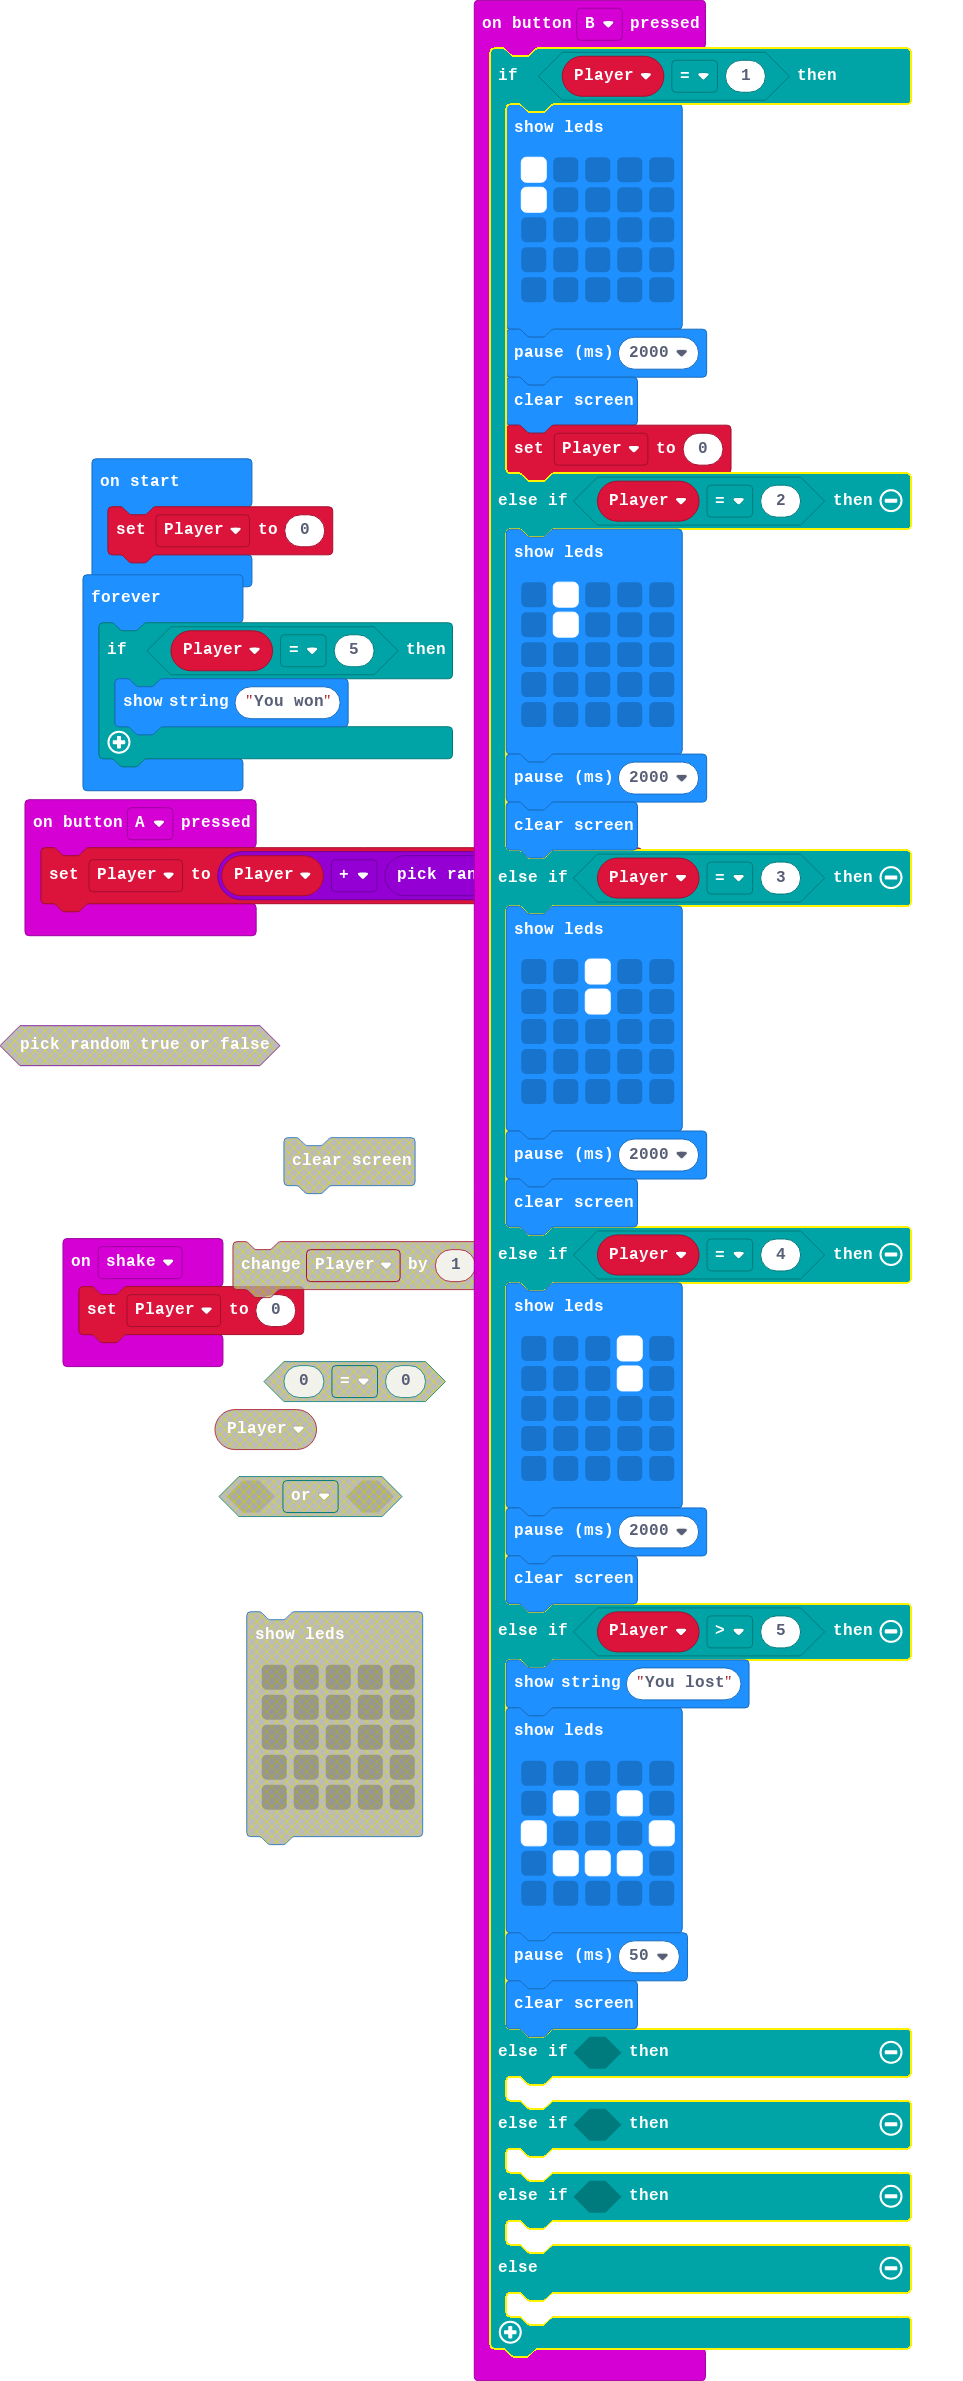
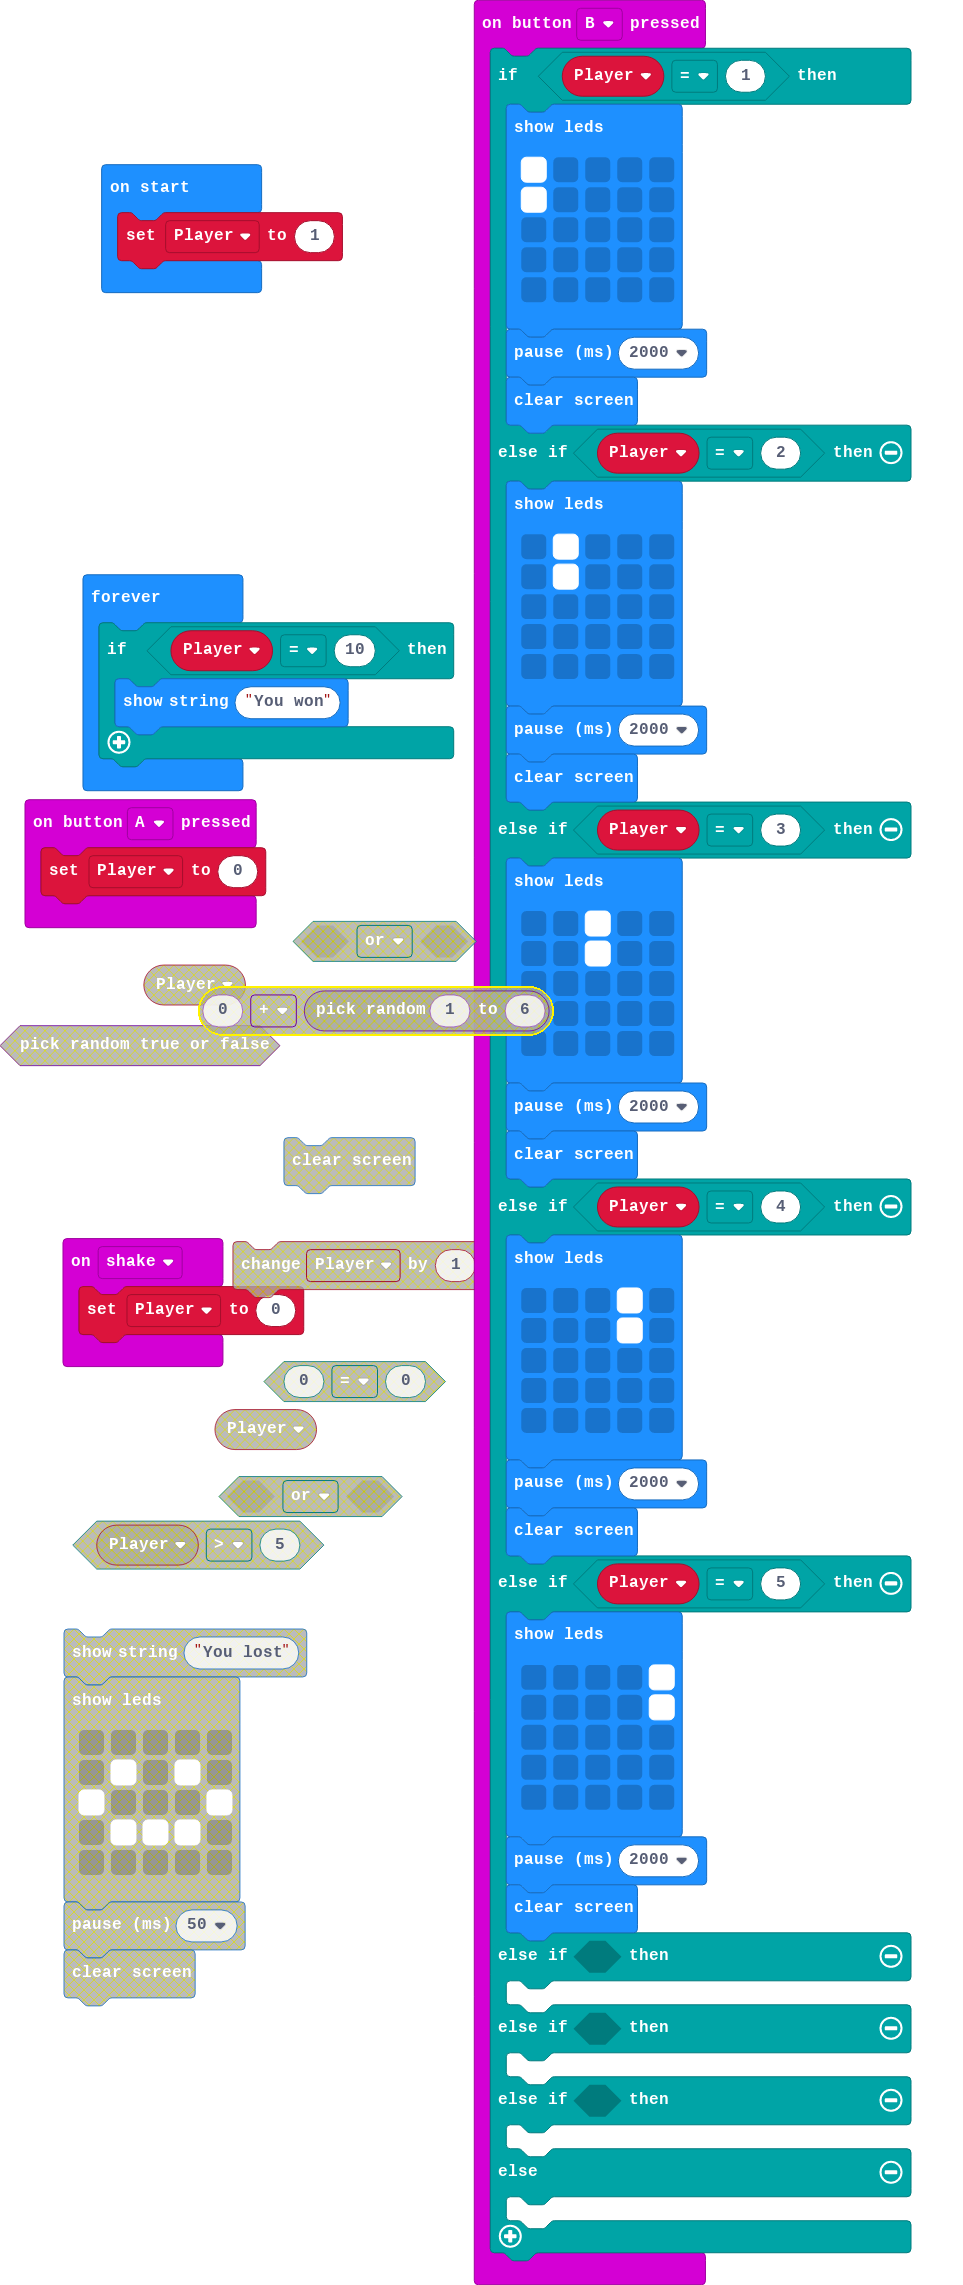
Update main.blocks, main.ts

diff --git a/main.ts b/main.ts
@@ -1,5 +1,5 @@
 input.onButtonPressed(Button.A, function () {
-    Player = Player + randint(1, 6)
+    Player = 0
 })
 input.onButtonPressed(Button.B, function () {
     if (Player == 1) {
@@ -12,7 +12,6 @@ input.onButtonPressed(Button.B, function () {
             `)
         basic.pause(2000)
         basic.clearScreen()
-        Player = 0
     } else if (Player == 2) {
         basic.showLeds(`
             . # . . .
@@ -43,16 +42,15 @@ input.onButtonPressed(Button.B, function () {
             `)
         basic.pause(2000)
         basic.clearScreen()
-    } else if (Player > 5) {
-        basic.showString("You lost")
+    } else if (Player == 5) {
         basic.showLeds(`
+            . . . . #
+            . . . . #
             . . . . .
-            . # . # .
-            # . . . #
-            . # # # .
+            . . . . .
             . . . . .
             `)
-        basic.pause(50)
+        basic.pause(2000)
         basic.clearScreen()
     } else if (false) {
     	
@@ -68,9 +66,9 @@ input.onGesture(Gesture.Shake, function () {
     Player = 0
 })
 let Player = 0
-Player = 0
+Player = 1
 basic.forever(function () {
-    if (Player == 5) {
+    if (Player == 10) {
         basic.showString("You won")
     }
 })
